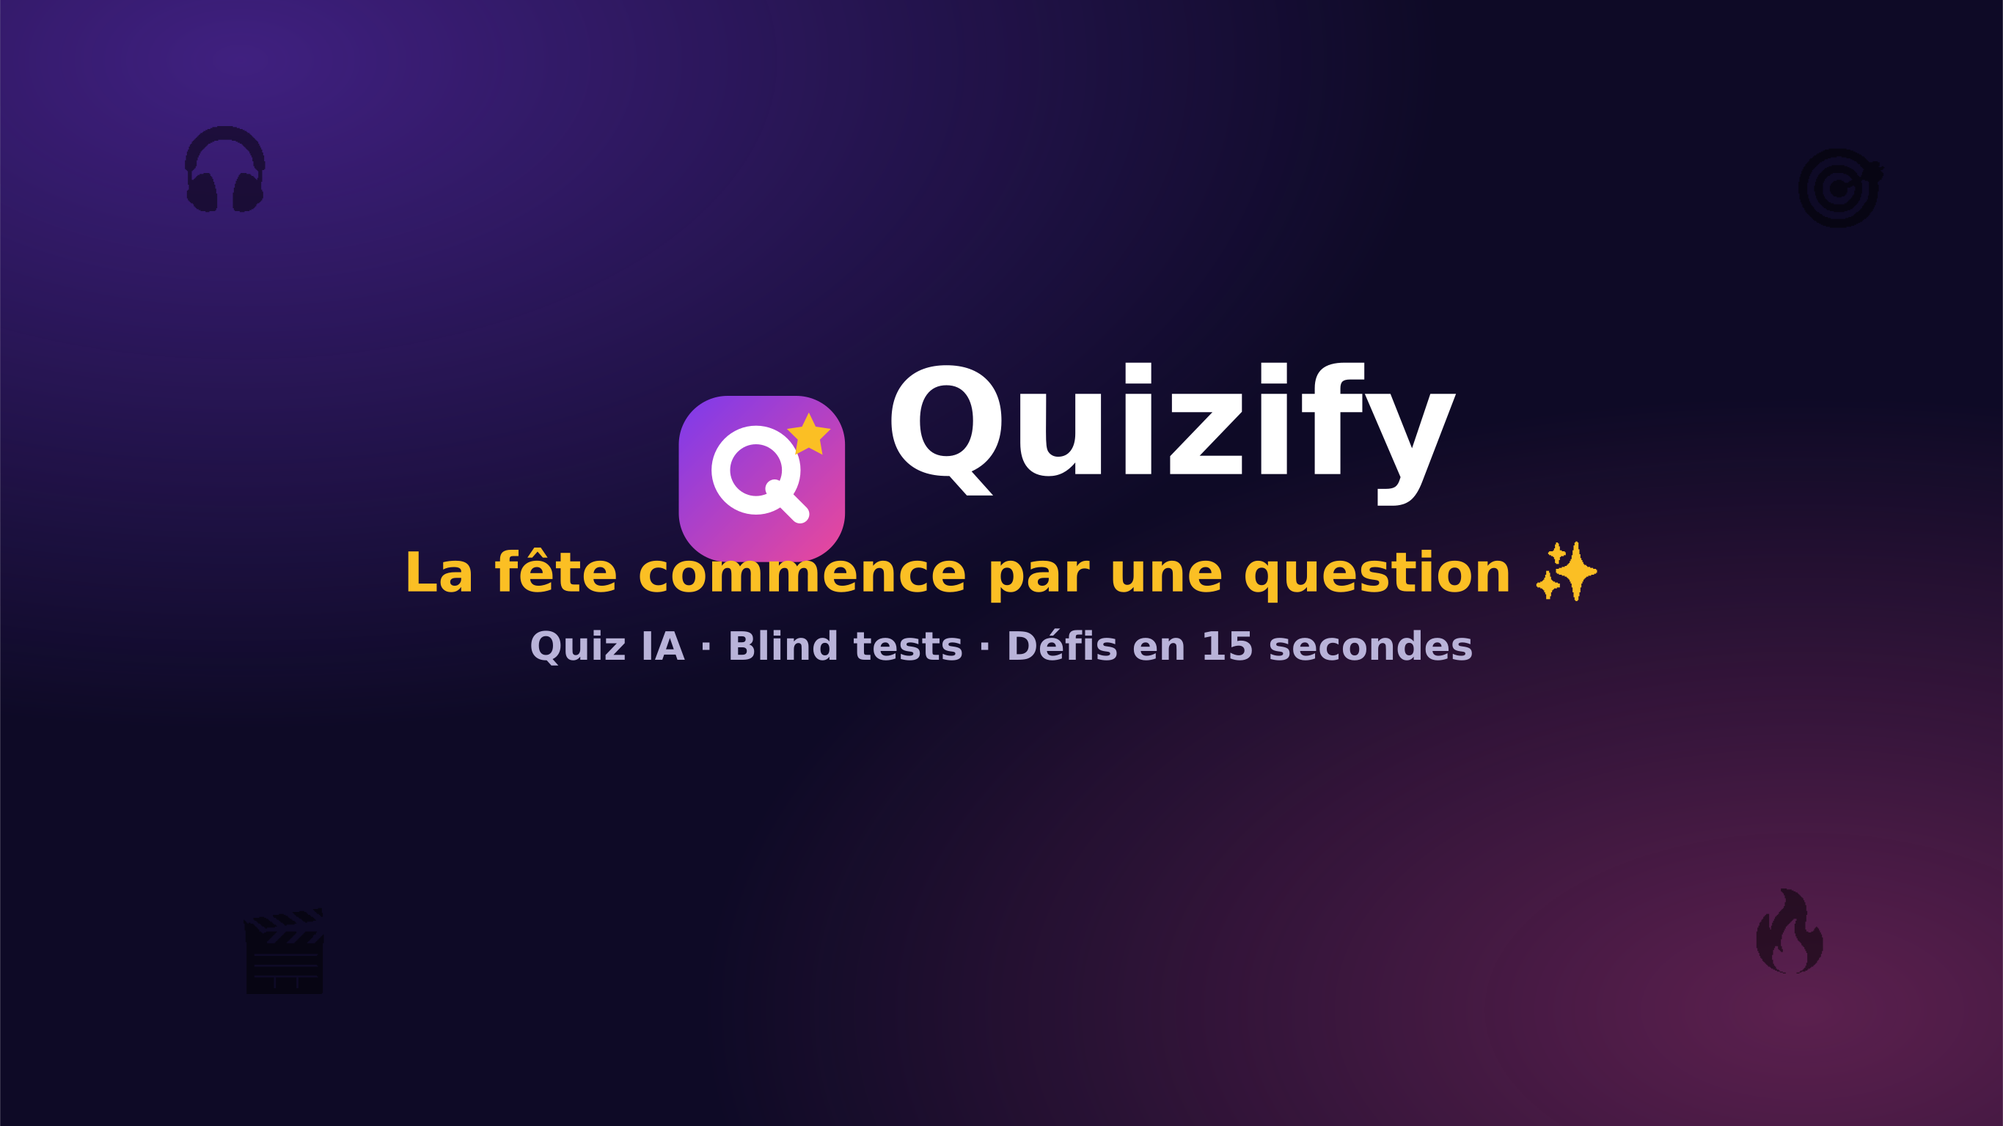
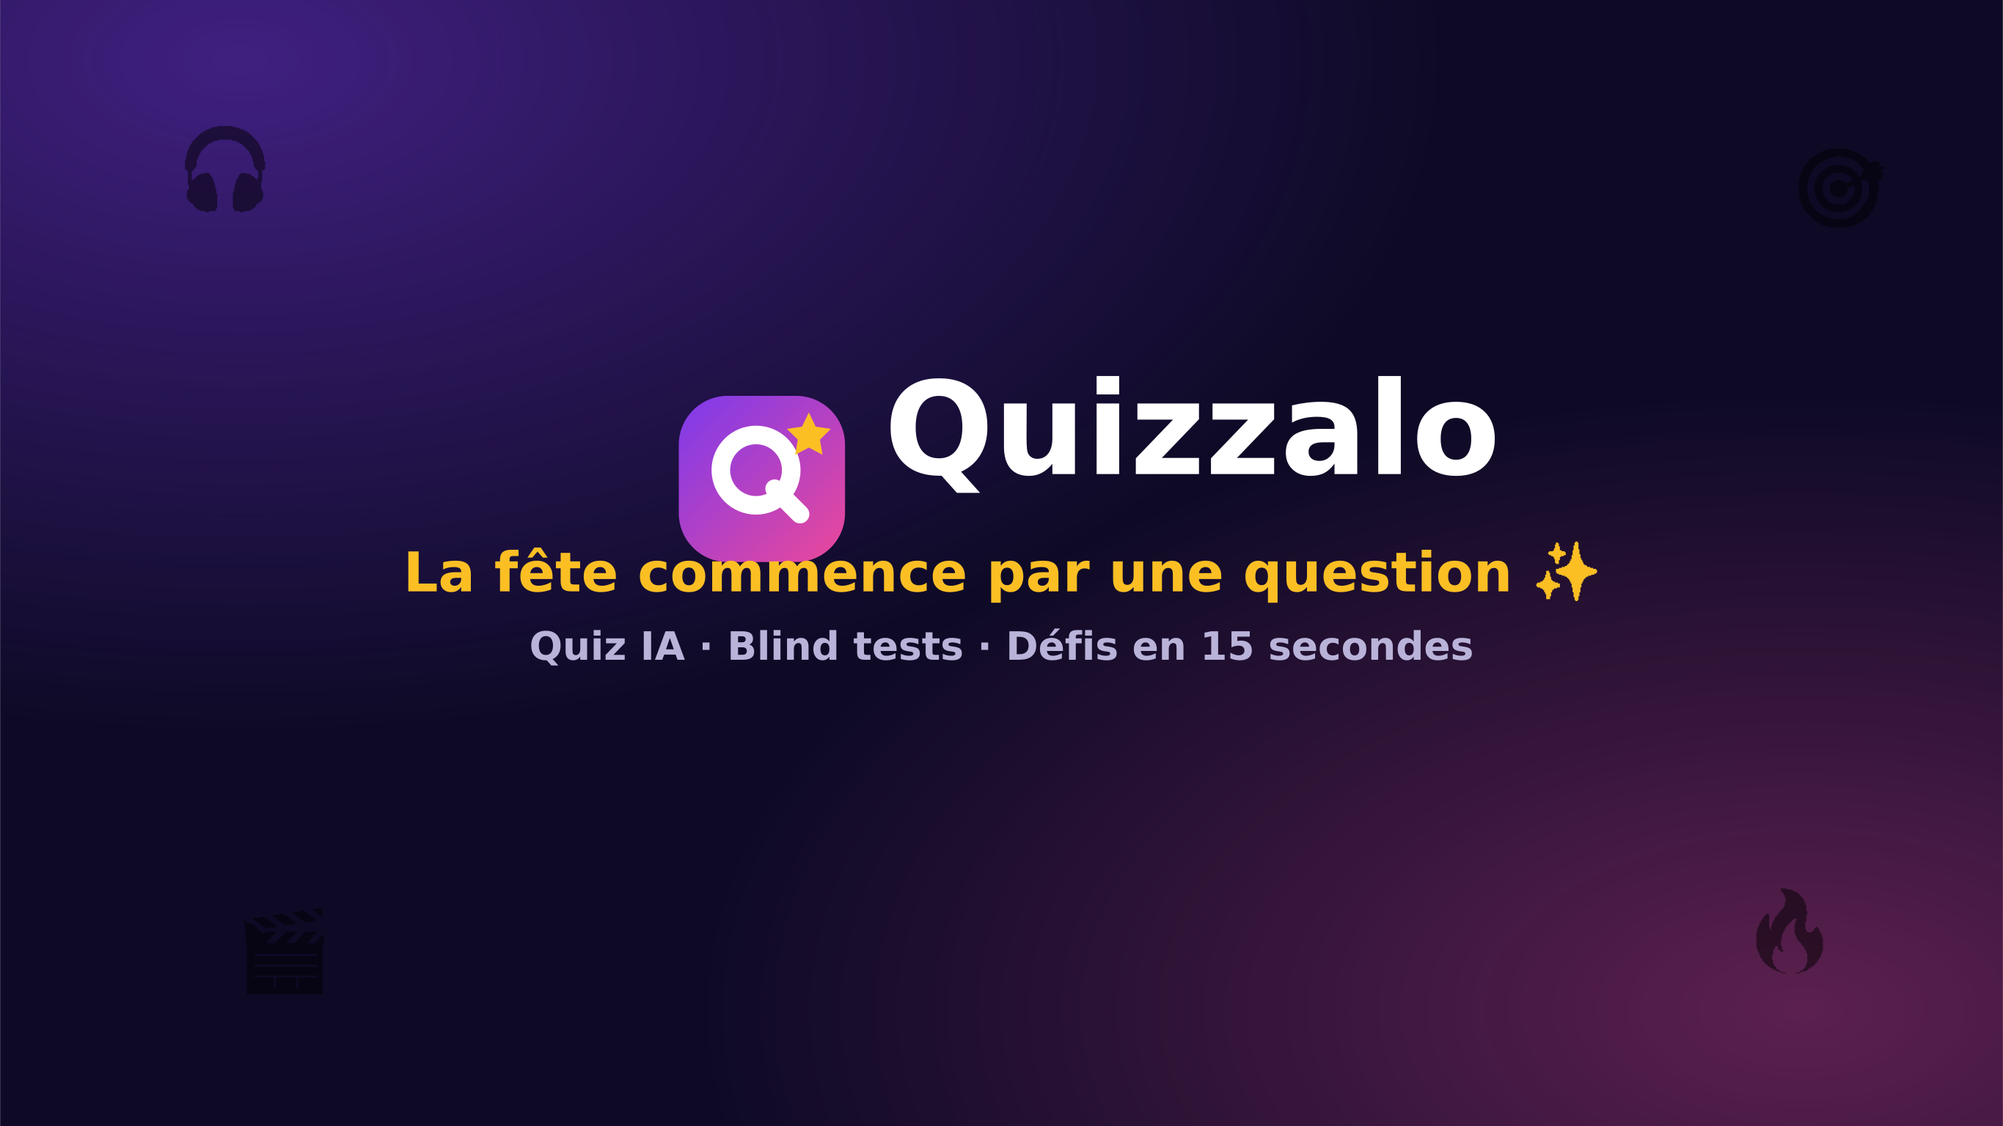
Renommage complet : Quizify → Quizzalo (marque, worker, manifest, textes, Studio, kit YouTube)
Claude-Session: https://claude.ai/code/session_01URaKL1Ba2CujBAmiNQYkTR

Changed region(s): [[0.4357, 0.3125, 0.747, 0.4688]]

diff --git a/brand/quizzalo-brand-board.html b/brand/quizzalo-brand-board.html
@@ -3,7 +3,7 @@
 <head>
 <meta charset="UTF-8">
 <meta name="viewport" content="width=device-width, initial-scale=1.0">
-<title>Quizify — Kit de marque</title>
+<title>Quizzalo — Kit de marque</title>
 <link href="https://fonts.googleapis.com/css2?family=Baloo+2:wght@600;700;800&family=Nunito:wght@400;600;700;800&display=swap" rel="stylesheet">
 <style>
   :root { --grape:#7C3AED; --bubble:#EC4899; --sunny:#FBBF24; --minty:#10B981; --sky:#06B6D4; --cherry:#EF4444; --cream:#FFF9F0; --ink:#1E293B; }
@@ -35,7 +35,7 @@
 
   <div class="hero">
     <svg class="logo" viewBox="0 0 64 64"><defs><linearGradient id="g" x1="0" y1="0" x2="1" y2="1"><stop offset="0" stop-color="#7C3AED"/><stop offset="1" stop-color="#EC4899"/></linearGradient></defs><rect x="2" y="2" width="60" height="60" rx="18" fill="url(#g)"/><circle cx="30" cy="29" r="13" fill="none" stroke="#fff" stroke-width="7"/><line x1="37" y1="36" x2="46" y2="45" stroke="#fff" stroke-width="7" stroke-linecap="round"/><path d="M49 8 l2.6 5.3 5.8 .85 -4.2 4.1 1 5.75 -5.2 -2.75 -5.2 2.75 1 -5.75 -4.2 -4.1 5.8 -.85 z" fill="#FBBF24"/><circle cx="14" cy="50" r="3" fill="#FDE68A"/></svg>
-    <h1>Quizify</h1>
+    <h1>Quizzalo</h1>
     <p class="slogan">« La fête commence par une question ✨ »</p>
     <p class="sub">Kit de marque officiel — version 1.0 · août 2026</p>
   </div>
@@ -70,8 +70,8 @@
     <p class="sub">Le « Q-loupe étoilée » : un Q blanc audacieux sur badge dégradé, avec l'étincelle Sunny — curiosité + fête. Fonctionne en favicon, avatar et affiche.</p>
     <br>
     <div class="logos">
-      <div class="logobox light"><svg width="54" height="54" viewBox="0 0 64 64"><defs><linearGradient id="g2" x1="0" y1="0" x2="1" y2="1"><stop offset="0" stop-color="#7C3AED"/><stop offset="1" stop-color="#EC4899"/></linearGradient></defs><rect x="2" y="2" width="60" height="60" rx="18" fill="url(#g2)"/><circle cx="30" cy="29" r="13" fill="none" stroke="#fff" stroke-width="7"/><line x1="37" y1="36" x2="46" y2="45" stroke="#fff" stroke-width="7" stroke-linecap="round"/><path d="M49 8 l2.6 5.3 5.8 .85 -4.2 4.1 1 5.75 -5.2 -2.75 -5.2 2.75 1 -5.75 -4.2 -4.1 5.8 -.85 z" fill="#FBBF24"/><circle cx="14" cy="50" r="3" fill="#FDE68A"/></svg><span class="wordmark" style="background:linear-gradient(90deg,#7C3AED,#EC4899); -webkit-background-clip:text; background-clip:text; color:transparent">Quizify</span></div>
-      <div class="logobox dark"><svg width="54" height="54" viewBox="0 0 64 64"><defs><linearGradient id="g3" x1="0" y1="0" x2="1" y2="1"><stop offset="0" stop-color="#A78BFA"/><stop offset="1" stop-color="#F9A8D4"/></linearGradient></defs><rect x="2" y="2" width="60" height="60" rx="18" fill="url(#g3)"/><circle cx="30" cy="29" r="13" fill="none" stroke="#1E1B4B" stroke-width="7"/><line x1="37" y1="36" x2="46" y2="45" stroke="#1E1B4B" stroke-width="7" stroke-linecap="round"/><path d="M49 8 l2.6 5.3 5.8 .85 -4.2 4.1 1 5.75 -5.2 -2.75 -5.2 2.75 1 -5.75 -4.2 -4.1 5.8 -.85 z" fill="#FBBF24"/></svg><span class="wordmark" style="color:#fff">Quizify</span></div>
+      <div class="logobox light"><svg width="54" height="54" viewBox="0 0 64 64"><defs><linearGradient id="g2" x1="0" y1="0" x2="1" y2="1"><stop offset="0" stop-color="#7C3AED"/><stop offset="1" stop-color="#EC4899"/></linearGradient></defs><rect x="2" y="2" width="60" height="60" rx="18" fill="url(#g2)"/><circle cx="30" cy="29" r="13" fill="none" stroke="#fff" stroke-width="7"/><line x1="37" y1="36" x2="46" y2="45" stroke="#fff" stroke-width="7" stroke-linecap="round"/><path d="M49 8 l2.6 5.3 5.8 .85 -4.2 4.1 1 5.75 -5.2 -2.75 -5.2 2.75 1 -5.75 -4.2 -4.1 5.8 -.85 z" fill="#FBBF24"/><circle cx="14" cy="50" r="3" fill="#FDE68A"/></svg><span class="wordmark" style="background:linear-gradient(90deg,#7C3AED,#EC4899); -webkit-background-clip:text; background-clip:text; color:transparent">Quizzalo</span></div>
+      <div class="logobox dark"><svg width="54" height="54" viewBox="0 0 64 64"><defs><linearGradient id="g3" x1="0" y1="0" x2="1" y2="1"><stop offset="0" stop-color="#A78BFA"/><stop offset="1" stop-color="#F9A8D4"/></linearGradient></defs><rect x="2" y="2" width="60" height="60" rx="18" fill="url(#g3)"/><circle cx="30" cy="29" r="13" fill="none" stroke="#1E1B4B" stroke-width="7"/><line x1="37" y1="36" x2="46" y2="45" stroke="#1E1B4B" stroke-width="7" stroke-linecap="round"/><path d="M49 8 l2.6 5.3 5.8 .85 -4.2 4.1 1 5.75 -5.2 -2.75 -5.2 2.75 1 -5.75 -4.2 -4.1 5.8 -.85 z" fill="#FBBF24"/></svg><span class="wordmark" style="color:#fff">Quizzalo</span></div>
     </div>
   </div>
 

diff --git a/src/index.js b/src/index.js
@@ -1,4 +1,4 @@
-// Quizify — Cloudflare Worker API + static SPA + Durable Object live games.
+// Quizzalo — Cloudflare Worker API + static SPA + Durable Object live games.
 
 import { Hono } from 'hono';
 import { hashPassword, randomHex, signJWT, requireAuth } from './auth';
@@ -194,7 +194,7 @@ function cleanTitle(s) {
 }
 
 async function deezerJson(path) {
-  const res = await fetch(`https://api.deezer.com${path}`, { headers: { 'User-Agent': 'Mozilla/5.0 (Quizify)' } });
+  const res = await fetch(`https://api.deezer.com${path}`, { headers: { 'User-Agent': 'Mozilla/5.0 (Quizzalo)' } });
   if (!res.ok) return null;
   return res.json().catch(() => null);
 }
@@ -260,7 +260,7 @@ async function fetchThemeTracks(term, limit = 60) {
 // Resolve a fresh Deezer preview URL at play time (stored URLs never expire).
 async function deezerPreviewUrl(id) {
   const res = await fetch(`https://api.deezer.com/track/${encodeURIComponent(id)}`, {
-    headers: { 'User-Agent': 'Mozilla/5.0 (Quizify)' },
+    headers: { 'User-Agent': 'Mozilla/5.0 (Quizzalo)' },
   });
   if (!res.ok) return null;
   const data = await res.json().catch(() => ({}));
@@ -269,7 +269,7 @@ async function deezerPreviewUrl(id) {
 
 async function fetchTracksItunes(term, limit = 25) {
   const url = `https://itunes.apple.com/search?term=${encodeURIComponent(term)}&media=music&entity=song&country=FR&limit=${limit}`;
-  const res = await fetch(url, { headers: { 'User-Agent': 'Mozilla/5.0 (Quizify)' } });
+  const res = await fetch(url, { headers: { 'User-Agent': 'Mozilla/5.0 (Quizzalo)' } });
   if (!res.ok) return { status: res.status, tracks: [] };
   const data = await res.json().catch(() => ({}));
   const tracks = (data.results || [])
@@ -520,8 +520,8 @@ app.post('/api/rewards/claim', auth, async (c) => {
 // Config publique : liens d'achat + AdSense. Remplie via les [vars] de wrangler.toml.
 app.get('/api/config', (c) => c.json({
   gumroad: {
-    premium: c.env.GUMROAD_PREMIUM_URL || `https://gumroad.com/l/${c.env.GUMROAD_PREMIUM_PERMALINK || 'quizify-premium'}`,
-    event: c.env.GUMROAD_EVENT_URL || `https://gumroad.com/l/${c.env.GUMROAD_EVENT_PERMALINK || 'quizify-event'}`,
+    premium: c.env.GUMROAD_PREMIUM_URL || `https://gumroad.com/l/${c.env.GUMROAD_PREMIUM_PERMALINK || 'quizzalo-premium'}`,
+    event: c.env.GUMROAD_EVENT_URL || `https://gumroad.com/l/${c.env.GUMROAD_EVENT_PERMALINK || 'quizzalo-event'}`,
   },
   adsenseClient: c.env.ADSENSE_CLIENT || null,
 }));
@@ -532,7 +532,7 @@ app.get('/ads.txt', (c) => {
   return c.text(`google.com, ${c.env.ADSENSE_CLIENT.replace('ca-', '')}, DIRECT, f08c47fec0942fa0\n`);
 });
 
-app.get('/api/health', (c) => c.json({ status: 'ok', app: c.env.APP_NAME || 'Quizify' }));
+app.get('/api/health', (c) => c.json({ status: 'ok', app: c.env.APP_NAME || 'Quizzalo' }));
 
 // Protected self-test: verifies AI, D1 and KV in production. GET /api/selftest?key=<AUTH_SECRET>
 app.get('/api/selftest', async (c) => {

diff --git a/web/src/pages/Studio.jsx b/web/src/pages/Studio.jsx
@@ -47,7 +47,7 @@ function drawBase(ctx, title) {
   ctx.textAlign = 'center';
   ctx.fillStyle = '#fff';
   ctx.font = '800 64px "Baloo 2", sans-serif';
-  ctx.fillText('🎯 Quizify', W / 2, 150);
+  ctx.fillText('🎯 Quizzalo', W / 2, 150);
   ctx.fillStyle = 'rgba(255,255,255,.55)';
   ctx.font = '700 40px Nunito, sans-serif';
   const lines = wrapText(ctx, title, W - 200);
@@ -116,7 +116,7 @@ function drawEnd(ctx) {
   roundRect(ctx, 140, 1180, W - 280, 170, 60); ctx.fill();
   ctx.fillStyle = '#fff';
   ctx.font = '800 56px "Baloo 2", sans-serif';
-  ctx.fillText('🎮 Joue en vrai sur Quizify', W / 2, 1285);
+  ctx.fillText('🎮 Joue en vrai sur Quizzalo', W / 2, 1285);
   ctx.fillStyle = 'rgba(255,255,255,.7)';
   ctx.font = '700 44px Nunito, sans-serif';
   ctx.fillText(location.host, W / 2, 1440);
@@ -279,7 +279,7 @@ export default function Studio() {
         {status === 'done' && videoUrl && (
           <div className="space-y-4">
             <video src={videoUrl} controls playsInline className="mx-auto w-full max-w-[280px] rounded-2xl border border-white/15" style={{ aspectRatio: '9/16' }} />
-            <a href={videoUrl} download={`quizify-short.${ext}`} className="btn-primary w-full text-xl">⬇ Télécharger la vidéo</a>
+            <a href={videoUrl} download={`quizzalo-short.${ext}`} className="btn-primary w-full text-xl">⬇ Télécharger la vidéo</a>
             <p className="text-sm font-semibold text-white/50">Puis ouvre YouTube → ➕ → « Créer un Short » → importe la vidéo. Titre conseillé : « Seuls 1 % réussissent ce quiz {selected?.title || ''} 🤯 #quiz #shorts »</p>
           </div>
         )}

diff --git a/web/index.html b/web/index.html
@@ -3,7 +3,7 @@
   <head>
     <meta charset="UTF-8" />
     <meta name="viewport" content="width=device-width, initial-scale=1.0, viewport-fit=cover" />
-    <title>Quizify — La fête commence par une question ✨</title>
+    <title>Quizzalo — La fête commence par une question ✨</title>
     <meta name="description" content="Génère des quiz sur n'importe quel sujet avec l'IA et joue en direct avec tes amis. Parfait pour les soirées, anniversaires et révisions !" />
     <meta name="theme-color" content="#0E0A26" />
     <link rel="icon" type="image/svg+xml" href="/logo.svg" />
@@ -11,7 +11,7 @@
     <link rel="apple-touch-icon" href="/icon-180.png" />
     <meta name="apple-mobile-web-app-capable" content="yes" />
     <meta name="apple-mobile-web-app-status-bar-style" content="default" />
-    <meta name="apple-mobile-web-app-title" content="Quizify" />
+    <meta name="apple-mobile-web-app-title" content="Quizzalo" />
     <link rel="preconnect" href="https://fonts.googleapis.com" />
     <link rel="preconnect" href="https://fonts.gstatic.com" crossorigin />
     <link href="https://fonts.googleapis.com/css2?family=Baloo+2:wght@500;600;700;800&family=Nunito:wght@400;600;700;800&display=swap" rel="stylesheet" />

diff --git a/web/src/pages/Home.jsx b/web/src/pages/Home.jsx
@@ -19,7 +19,7 @@ export default function Home() {
         <span className="deco right-4 top-10 animate-floaty text-3xl" style={{ animationDelay: '0.9s' }}>🎊</span>
         <span className="deco left-8 bottom-2 animate-floaty text-3xl" style={{ animationDelay: '1.4s' }}>🎵</span>
         <span className="deco right-10 bottom-8 animate-floaty text-4xl" style={{ animationDelay: '0.6s' }}>❓</span>
-        <img src="/logo.svg" alt="Quizify" className="mx-auto mb-4 h-20 w-20 animate-floaty" />
+        <img src="/logo.svg" alt="Quizzalo" className="mx-auto mb-4 h-20 w-20 animate-floaty" />
         <h1 className="mx-auto max-w-2xl font-display text-4xl font-extrabold leading-tight text-white sm:text-5xl">
           La fête commence<br className="hidden sm:block" /> par une <span className="bg-gradient-to-r from-grape to-bubble bg-clip-text text-transparent">question</span> ✨
         </h1>

diff --git a/web/src/components/Nav.jsx b/web/src/components/Nav.jsx
@@ -11,8 +11,8 @@ export default function Nav() {
     <nav className="fixed inset-x-0 top-0 z-50 border-b border-white/10 bg-[#14102e]/85 backdrop-blur-md">
       <div className="mx-auto flex max-w-5xl items-center justify-between px-4 py-3">
         <Link to="/" className="flex items-center gap-2" onClick={() => setOpen(false)}>
-          <img src="/logo.svg" alt="Quizify" className="h-9 w-9" />
-          <span className="font-display text-2xl font-extrabold bg-gradient-to-r from-grape to-bubble bg-clip-text text-transparent">Quizify</span>
+          <img src="/logo.svg" alt="Quizzalo" className="h-9 w-9" />
+          <span className="font-display text-2xl font-extrabold bg-gradient-to-r from-grape to-bubble bg-clip-text text-transparent">Quizzalo</span>
         </Link>
 
         <div className="hidden items-center gap-5 sm:flex">

diff --git a/web/src/components/Footer.jsx b/web/src/components/Footer.jsx
@@ -6,7 +6,7 @@ export default function Footer() {
       <div className="mx-auto max-w-5xl px-4 py-8 text-center">
         <div className="flex items-center justify-center gap-2">
           <img src="/logo.svg" alt="" className="h-7 w-7" />
-          <span className="font-display text-xl font-extrabold bg-gradient-to-r from-grape to-bubble bg-clip-text text-transparent">Quizify</span>
+          <span className="font-display text-xl font-extrabold bg-gradient-to-r from-grape to-bubble bg-clip-text text-transparent">Quizzalo</span>
         </div>
         <p className="mt-1 font-semibold text-white/50">La fête commence par une question ✨</p>
         <div className="mt-4 flex flex-wrap justify-center gap-x-5 gap-y-2 text-sm font-bold text-white/60">

diff --git a/web/src/components/ShareButtons.jsx b/web/src/components/ShareButtons.jsx
@@ -2,7 +2,7 @@
 export function podiumText(title, leaderboard) {
   const medals = ['🥇', '🥈', '🥉'];
   const lines = (leaderboard || []).slice(0, 3).map((p, i) => `${medals[i]} ${p.name} — ${p.score} pts`).join('\n');
-  return `🏆 Podium Quizify — « ${title || 'Quiz'} »\n${lines}\n\nÀ ton tour ! Crée ton quiz en 30 secondes 👉 ${location.origin} ✨`;
+  return `🏆 Podium Quizzalo — « ${title || 'Quiz'} »\n${lines}\n\nÀ ton tour ! Crée ton quiz en 30 secondes 👉 ${location.origin} ✨`;
 }
 
 export default function ShareButtons({ title, leaderboard }) {

diff --git a/web/src/pages/Explore.jsx b/web/src/pages/Explore.jsx
@@ -3,7 +3,7 @@ import { Link } from 'react-router-dom';
 import { api } from '../api';
 import AdSlot from '../components/AdSlot';
 
-// Tout Quizify rangé par catégorie — le hub d'exploration (et la vitrine des futurs packs).
+// Tout Quizzalo rangé par catégorie — le hub d'exploration (et la vitrine des futurs packs).
 export default function Explore() {
   const [categories, setCategories] = useState({});
 

diff --git a/web/src/api.js b/web/src/api.js
@@ -27,6 +27,6 @@ export function wsUrl(pin, params) {
 
 // Gumroad checkout links — replace with your own Gumroad account links.
 export const GUMROAD_LINKS = {
-  premium: 'https://gumroad.com/l/quizify-premium',
-  event: 'https://gumroad.com/l/quizify-event',
+  premium: 'https://gumroad.com/l/quizzalo-premium',
+  event: 'https://gumroad.com/l/quizzalo-event',
 };

diff --git a/web/public/sw.js b/web/public/sw.js
@@ -1,4 +1,4 @@
-// Quizify service worker — v1
+// Quizzalo service worker — v1
 // Stratégie prudente : les pages et l'API vont TOUJOURS au réseau (pas de cache périmé),
 // seuls les assets hashés (immutables) sont mis en cache.
 self.addEventListener('install', () => self.skipWaiting());

diff --git a/brand/guide-de-lancement.md b/brand/guide-de-lancement.md
@@ -1,4 +1,4 @@
-# 🚀 Quizify — Guide de lancement complet
+# 🚀 Quizzalo — Guide de lancement complet
 
 *Le cadeau est prêt. Voici les 4 comptes à créer, ce que tu me donnes pour chacun, et ce qui se passe automatiquement ensuite. Tout le reste est déjà codé, déployé et testé.*
 
@@ -6,7 +6,7 @@
 
 ## ✅ Déjà 100 % opérationnel (rien à faire)
 
-L'application complète sur **quizify.chachou8106.workers.dev** : quiz IA vérifiés (26 catégories, 11 types), calcul mental garanti juste, blind tests (38 ambiances, extraits 15 s), parties live avec code PIN, mode animateur-joueur, récompenses des vainqueurs, partage WhatsApp du podium, app installable (PWA), **Studio Shorts intégré** (menu 🍔 → Studio Shorts 🎬 : n'importe quel quiz devient une vidéo verticale MP4 avec musique, générée sur ton téléphone). Comptes de Chachou et Nicole : Premium à vie.
+L'application complète sur **quizzalo.chachou8106.workers.dev** : quiz IA vérifiés (26 catégories, 11 types), calcul mental garanti juste, blind tests (38 ambiances, extraits 15 s), parties live avec code PIN, mode animateur-joueur, récompenses des vainqueurs, partage WhatsApp du podium, app installable (PWA), **Studio Shorts intégré** (menu 🍔 → Studio Shorts 🎬 : n'importe quel quiz devient une vidéo verticale MP4 avec musique, générée sur ton téléphone). Comptes de Chachou et Nicole : Premium à vie.
 
 ---
 
@@ -14,7 +14,7 @@ L'application complète sur **quizify.chachou8106.workers.dev** : quiz IA vérif
 
 **Pourquoi d'abord :** c'est le moteur d'acquisition. Chaque Short ramène des joueurs, chaque joueur peut devenir abonné payant. AdSense viendra s'y brancher.
 
-**À créer :** une chaîne YouTube (youtube.com → avatar → « Créer une chaîne »), au nom de ta sœur ou « Quizify FR ».
+**À créer :** une chaîne YouTube (youtube.com → avatar → « Créer une chaîne »), au nom de ta sœur ou « Quizzalo FR ».
 
 **Kit prêt à l'emploi (fichiers livrés) :**
 - `youtube-avatar-800.png` → photo de profil
@@ -23,7 +23,7 @@ L'application complète sur **quizify.chachou8106.workers.dev** : quiz IA vérif
   > 🎯 1 quiz par jour, 15 secondes pour répondre !
   > Blind tests 🎧, culture G 🌍, devinettes emoji 😀…
   > Combien de bonnes réponses ? Dis-le en commentaire 💬
-  > 🎮 Joue en vrai avec tes amis (gratuit, sans appli) 👉 quizify.chachou8106.workers.dev
+  > 🎮 Joue en vrai avec tes amis (gratuit, sans appli) 👉 quizzalo.chachou8106.workers.dev
 
 **Production des Shorts (déjà dans l'app) :** Studio Shorts 🎬 → choisis un quiz → 3 questions × 5 s → Générer → Télécharger → appli YouTube → ➕ → importer. **2 minutes par vidéo.**
 
@@ -39,20 +39,20 @@ L'application complète sur **quizify.chachou8106.workers.dev** : quiz IA vérif
 
 | Produit | Type | Prix | URL du produit |
 |---|---|---|---|
-| Quizify Premium | Membership | 4,99 €/mois | `quizify-premium` |
-| Quizify Pass Événement 48h | Digital product | 14,99 € | `quizify-event` |
+| Quizzalo Premium | Membership | 4,99 €/mois | `quizzalo-premium` |
+| Quizzalo Pass Événement 48h | Digital product | 14,99 € | `quizzalo-event` |
 
 (Descriptions prêtes à coller : voir la conversation, ou demande-les-moi.)
 
-**Tu me donnes ensuite :** les 2 URLs d'achat (ex. `https://tasoeur.gumroad.com/l/quizify-premium`) → je les mets dans la config → **tout devient automatique** : achat → clé par email → activation dans l'app → compte Premium ; annulations/remboursements rétrogradés chaque nuit. Zéro gestion.
+**Tu me donnes ensuite :** les 2 URLs d'achat (ex. `https://tasoeur.gumroad.com/l/quizzalo-premium`) → je les mets dans la config → **tout devient automatique** : achat → clé par email → activation dans l'app → compte Premium ; annulations/remboursements rétrogradés chaque nuit. Zéro gestion.
 
 ---
 
 ## 3⃣ Nom de domaine (recommandé — ~10 €/an)
 
-**Pourquoi :** indispensable pour AdSense (refusé sur workers.dev), plus pro pour tout (« quizify.fr » sur les vidéos), et améliore le partage.
+**Pourquoi :** indispensable pour AdSense (refusé sur workers.dev), plus pro pour tout (« quizzalo.fr » sur les vidéos), et améliore le partage.
 
-**À faire :** dans ton dashboard Cloudflare → Domain Registration → chercher `quizify.fr` (ou `quizify-app.fr`, `joue-quizify.fr`…) → acheter → me dire le nom.
+**À faire :** dans ton dashboard Cloudflare → Domain Registration → chercher `quizzalo.fr` (ou `quizify-app.fr`, `joue-quizzalo.fr`…) → acheter → me dire le nom.
 
 **Je fais ensuite :** je connecte le domaine au Worker (route + redirection), mets à jour tous les liens de l'app, du kit YouTube et des vidéos.
 
